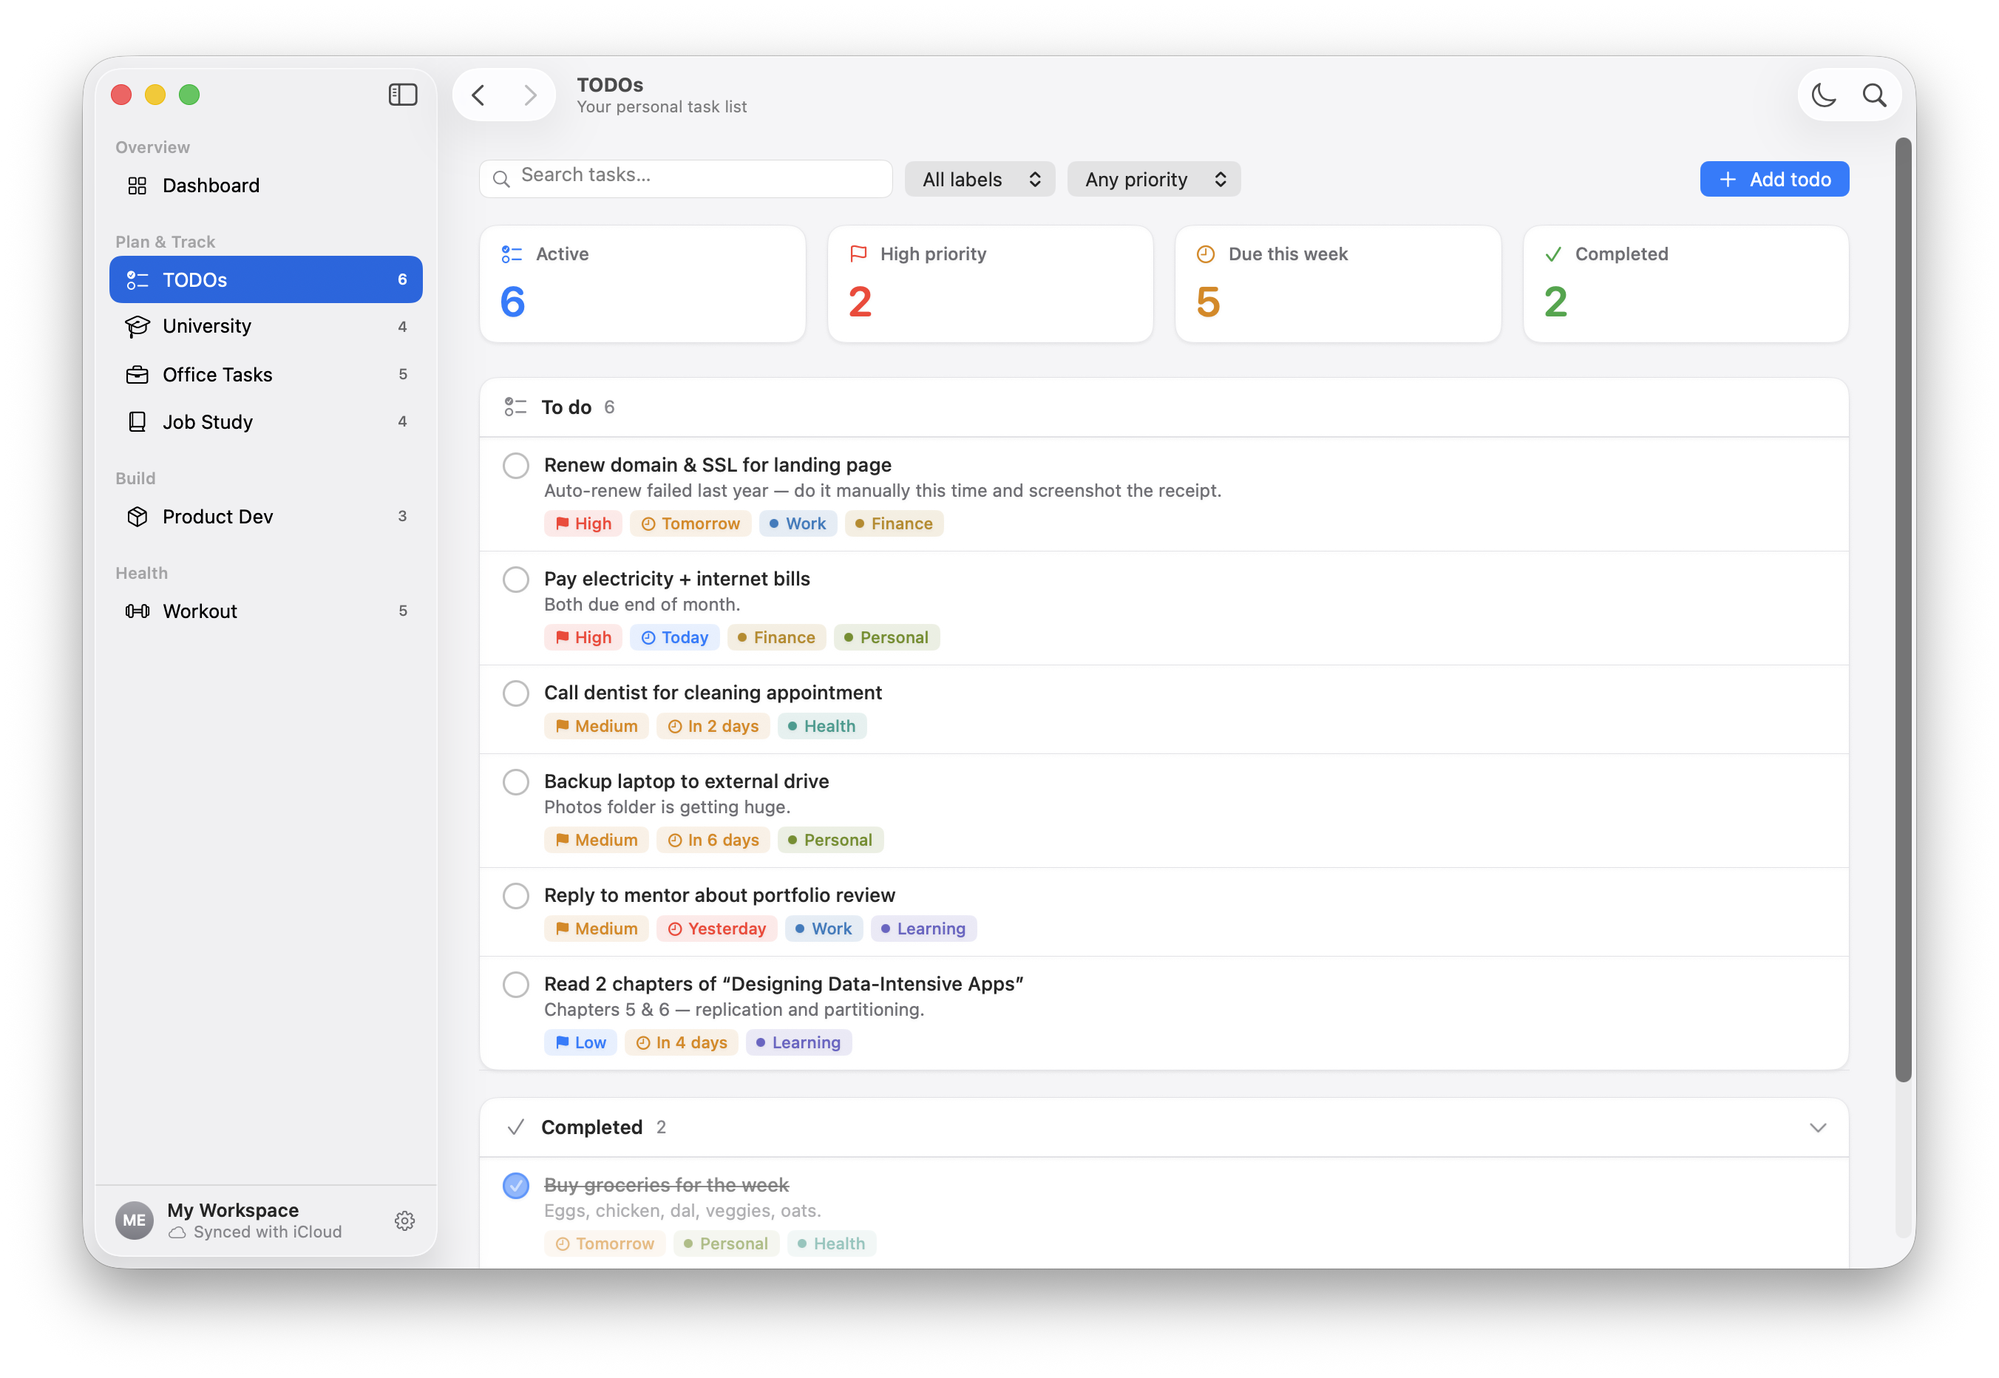
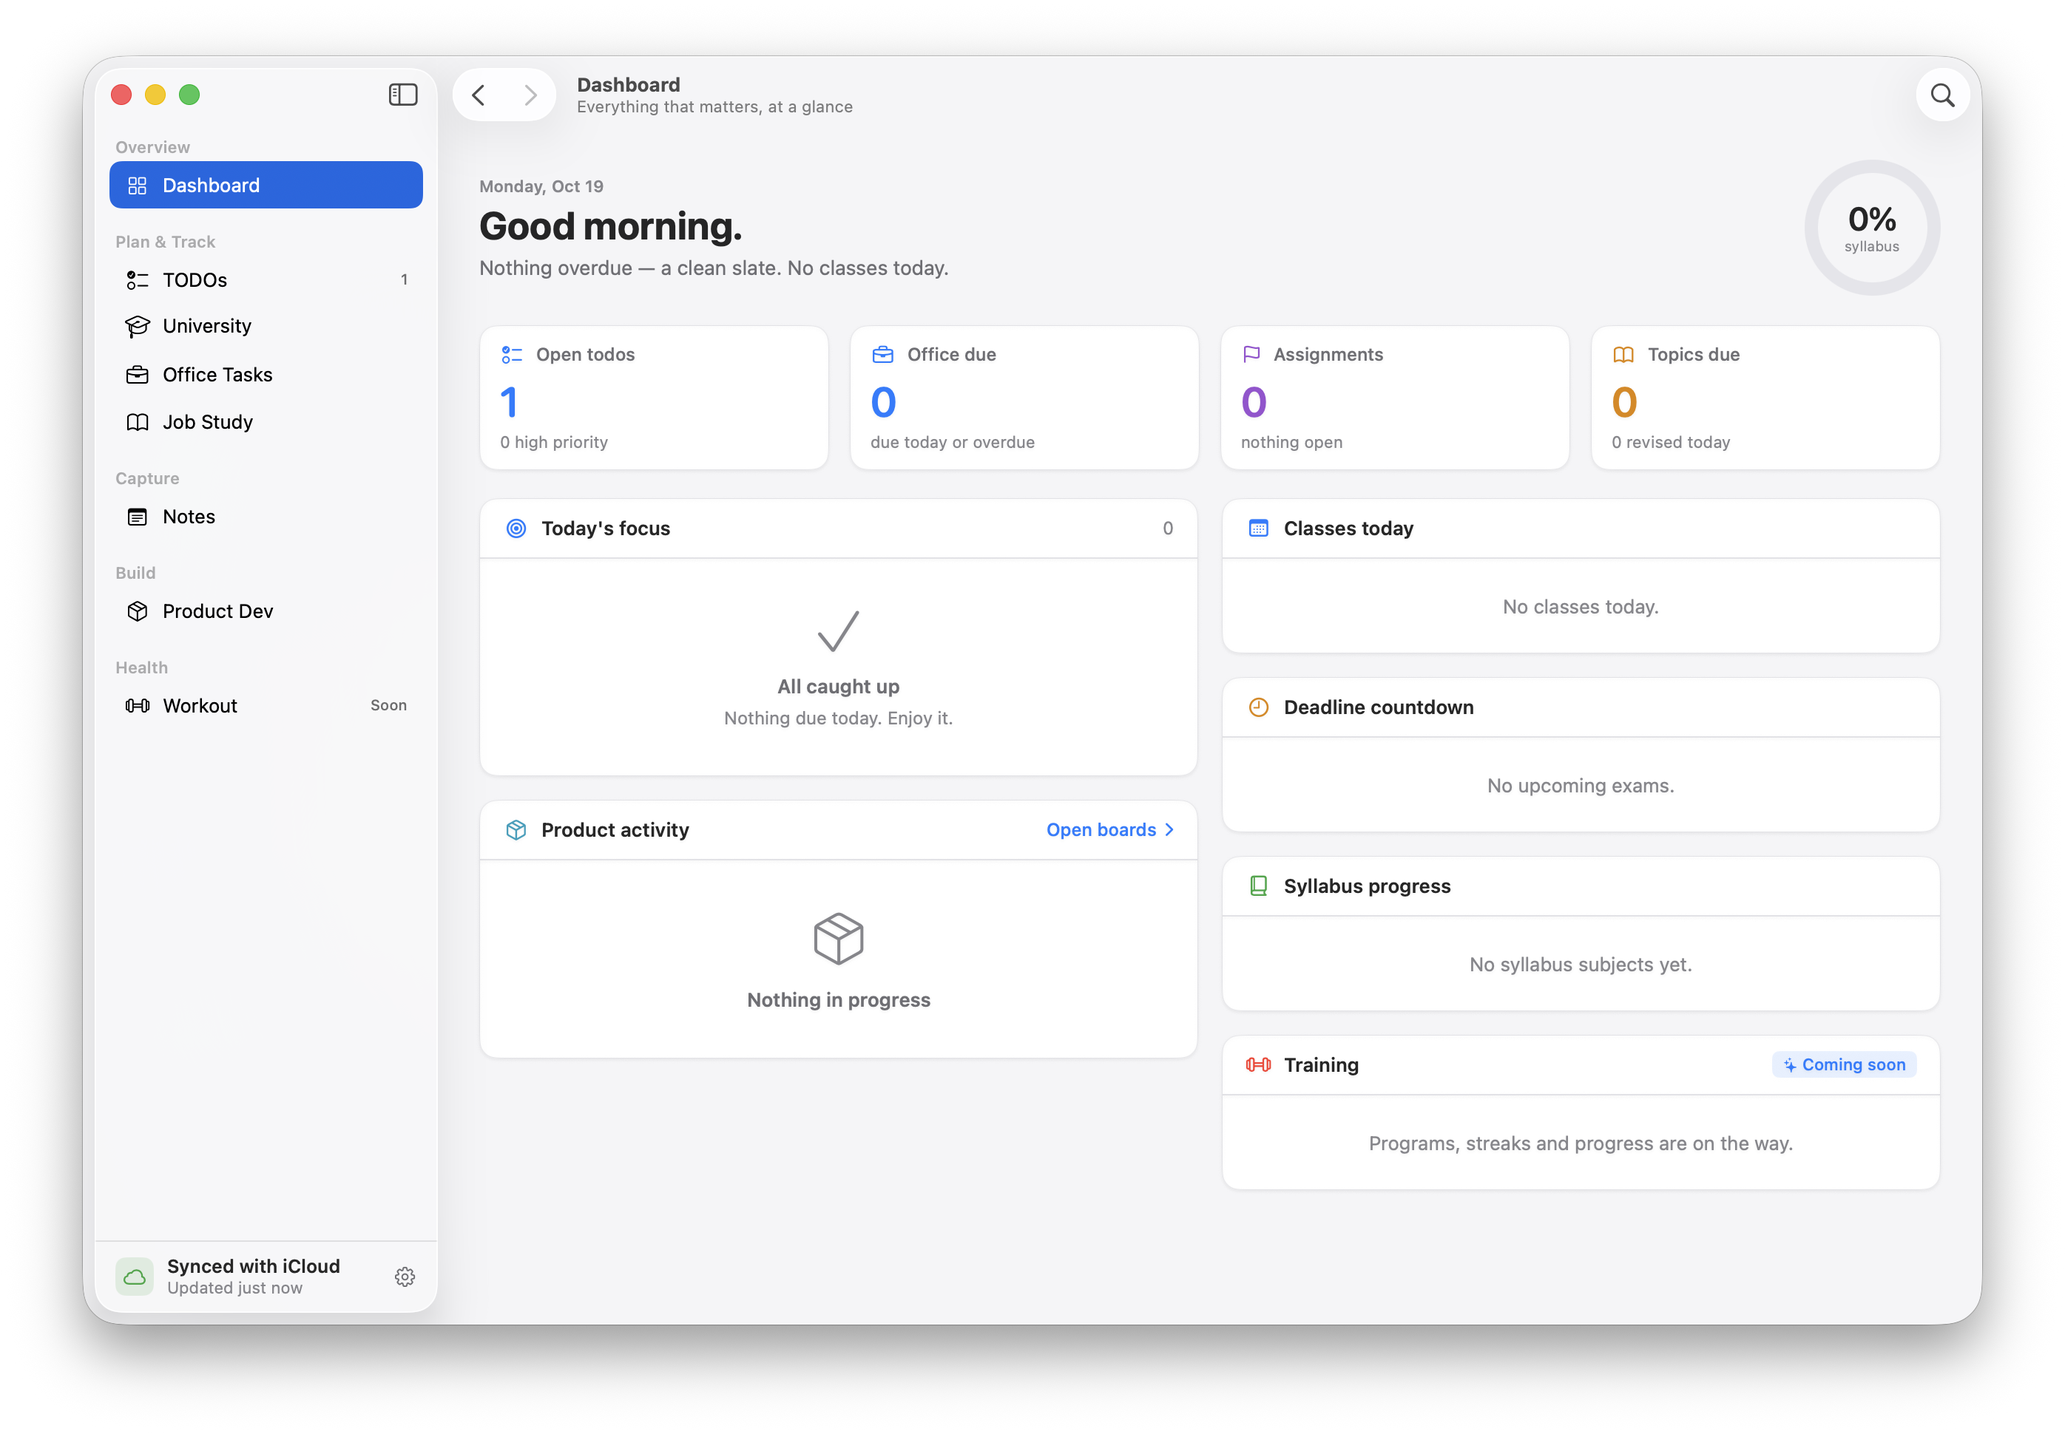
Rewrite the README for the current app and the DMG release
Cover every section, sync, shortcuts, the DMG install and Gatekeeper
steps, and add badges, the app icon and a dashboard screenshot.

diff --git a/README.md b/README.md
@@ -1,51 +1,113 @@
-# MySelf
+<div align="center">
 
-A personal OS for macOS, built in SwiftUI. One window for the things you track day to day: TODOs, university classes and assignments, office tasks, job-interview study, product boards and workout programs.
+<img src="docs/icon.png" width="128" height="128" alt="MySelf app icon">
 
-![MySelf showing the TODOs page with the sidebar, summary tiles and task list](screenshot.png)
+# MySelf: a personal productivity app for macOS
 
-> [!NOTE]
-> MySelf is in early development. **TODOs are saved and can sync between your Macs through iCloud Drive.** The other sections still run on sample data held in memory, so changes there are lost when you quit. Some editor sheets (such as "Add class") are placeholders for now.
+**One native Mac app for your to-dos, notes, university classes, office tasks, interview prep and product boards. Built with SwiftUI and synced over iCloud Drive.**
+
+[![macOS 26+](https://img.shields.io/badge/macOS-26%2B-000000?logo=apple&logoColor=white)](#requirements)
+[![Swift](https://img.shields.io/badge/Swift-5-F05138?logo=swift&logoColor=white)](https://www.swift.org)
+[![SwiftUI](https://img.shields.io/badge/UI-SwiftUI-0A84FF?logo=swift&logoColor=white)](https://developer.apple.com/xcode/swiftui/)
+[![Universal](https://img.shields.io/badge/Apple%20Silicon%20%2B%20Intel-Universal-6E6E73)](#requirements)
+[![License: MIT](https://img.shields.io/github/license/Ok9xNirab/myself?color=34C759)](LICENSE)
+[![Last commit](https://img.shields.io/github/last-commit/Ok9xNirab/myself)](https://github.com/Ok9xNirab/myself/commits/main)
+
+[**⬇ Download the DMG**](https://github.com/Ok9xNirab/myself/releases/latest) · [Features](#features) · [Install](#installation) · [Build from source](#build-from-source) · [iCloud sync](#icloud-sync)
+
+<img src="screenshot.png" alt="MySelf dashboard on macOS showing today's focus, open todos, office tasks, assignments, Job Study topics due, classes today and syllabus progress" width="860">
+
+</div>
+
+## Why MySelf?
+
+Most people track their life across five apps: a todo list, a notes app, a Kanban board, a study tracker and a calendar for classes. **MySelf puts all of them in one fast, native macOS window**, with a dashboard that shows what's due today across everything.
+
+- 🖥 **Native Mac app**: SwiftUI with a real sidebar, toolbar, menus, multiple windows and keyboard shortcuts. Not a web wrapper.
+- 🔒 **Your data stays yours**: no account, no server, no tracking. Every item is a small JSON file in a folder you choose.
+- ☁ **Free iCloud sync**: syncs between your Macs through iCloud Drive.
+- ⌨ **Keyboard-first**: Quick Open (<kbd>⌘K</kbd>), a system-wide search shortcut (<kbd>⌥⌘K</kbd>) and a shortcut for every page.
+- 🧩 **Only what you use**: switch off any section you don't need and it disappears everywhere.
 
 ## Features
 
 | Section | What it does |
 | --- | --- |
-| **Dashboard** | Today's focus (todos and office tasks due today or overdue, plus assignments due by tomorrow) and summary tiles for every enabled section. |
-| **TODOs** | Tasks with priorities, labels and due dates ("Today", "Tomorrow", "2d overdue"). Add with ⌘N, edit with a double-click, undo with ⌘Z. Saved and synced. |
-| **University** | Classes, weekly schedule, syllabus progress, assignments and exams. |
-| **Office Tasks** | Work tasks. These are always high priority. |
-| **Job Study** | Interview topics with revision tracking. Ticking a topic logs a revision for today. |
-| **Product Dev** | Kanban boards with Backlog, In Progress, Review and Done columns. |
-| **Workout** | Week-by-week programs. Future weeks unlock as you finish the current one. |
+| 📊 **Dashboard** | *Today's focus* (todos and office tasks due today or overdue, plus assignments due by tomorrow), classes today, deadline countdown, syllabus progress and product activity. |
+| ✅ **TODOs** | Tasks with priorities, colour labels and due dates ("Today", "Tomorrow", "2d overdue"). |
+| 🎓 **University** | Classes with a weekly schedule, syllabus subjects and topics, assignments and exams. |
+| 💼 **Office Tasks** | Work tasks with notes, a reference link and a due date. Always high priority. |
+| 📖 **Job Study** | Interview-prep subjects with a revision checklist. A topic is due again 7 days after you last revised it, and topics can link to notes. |
+| 📝 **Notes** | A block editor with headings, lists, checklists, quotes, syntax-highlighted code, **LaTeX math** and Bengali typefaces. Notes are sorted into categories, and any note can open in its own window. |
+| 🗂 **Product Dev** | Kanban boards per project with Backlog, In Progress, Review and Done columns. Drag cards between columns. |
+| 🏋 **Workout** | Week-by-week training programs. *Coming soon.* |
 
-Also included:
+### Built for speed
 
-- **Quick Open** (<kbd>⌘K</kbd>) to jump to any page or item.
-- Keyboard navigation: <kbd>⌘1</kbd>–<kbd>⌘7</kbd> go to a section, and <kbd>⌘[</kbd> / <kbd>⌘]</kbd> go back and forward.
-- Light and dark mode, a choice of accent colours, sidebar style and row density.
-- **Settings › Features**: switch off any section you don't use (University, Office Tasks, Job Study, Product Dev, Workout). It disappears from the sidebar, dashboard, Quick Open and Go menu, and its data stays in place.
-- An adaptive app icon with dark, clear and tinted variants.
+- **Quick Open** (<kbd>⌘K</kbd>) jumps to any page, task or note.
+- **Search MySelf from any app** (<kbd>⌥⌘K</kbd>, changeable) opens a Spotlight-style panel over whatever you're doing. No Accessibility permission needed.
+- **Menu bar icon** for quick access: New Todo, New Office Task, New Note, Search and Go To.
+- **Shortcuts**: <kbd>⌘N</kbd> new todo, <kbd>⇧⌘N</kbd> new office task, <kbd>⌥⌘N</kbd> new note, <kbd>⌘1</kbd>–<kbd>⌘8</kbd> switch pages, <kbd>⌘[</kbd> / <kbd>⌘]</kbd> back and forward, <kbd>⌃⌘S</kbd> show or hide the sidebar.
+- **Looks at home on macOS**: light and dark mode, your system accent colour, sidebar style and row density options, and an adaptive app icon with dark, clear and tinted variants.
 
 ## Requirements
 
-- **macOS 26 (Tahoe)** or later, on Apple Silicon or Intel.
-- To build from source: **Xcode 26** or later.
+- **macOS 26 (Tahoe)** or later
+- Apple Silicon or Intel (universal binary)
+- To build from source: **Xcode 26** or later
 
-The project also targets iOS, iPadOS and visionOS, but macOS is the primary platform and the only one covered below.
+The project also builds for iPadOS, iOS and visionOS, but macOS is the main platform.
 
 ## Installation
 
-MySelf isn't distributed through the Mac App Store and isn't notarized by Apple, so macOS Gatekeeper blocks it the first time you open it. The steps below show how to allow it. You only need to do this once.
+1. Download **`MySelf-<version>.dmg`** from the [latest release](https://github.com/Ok9xNirab/myself/releases/latest).
+2. Open the DMG and drag **Myself** onto the **Applications** folder.
+3. Open MySelf from Applications. The first time, macOS will block it. Follow [Opening MySelf for the first time](#opening-myself-for-the-first-time).
 
-### Option 1: Download a release
+### Opening MySelf for the first time
 
-1. Go to the [Releases](https://github.com/Ok9xNirab/myself/releases) page and download the latest `MySelf.zip`.
-2. Double-click the zip to extract `Myself.app`.
-3. Drag `Myself.app` into your **Applications** folder.
-4. Open it, then follow [Getting past Gatekeeper](#getting-past-gatekeeper).
+MySelf is free and open source, and it isn't notarized by Apple (that needs a paid developer account). So the first time you open it, macOS shows:
 
-### Option 2: Build from source
+> "Myself" Not Opened. Apple could not verify "Myself" is free of malware that may harm your Mac or compromise your privacy.
+
+The app isn't damaged, and you can read every line of its source here. Allow it once:
+
+1. Click **Done** on the warning (not *Move to Trash*).
+2. Open **System Settings › Privacy & Security**.
+3. Scroll down to **Security**, find *"Myself" was blocked…* and click **Open Anyway**.
+4. Confirm with your password or Touch ID, then click **Open Anyway** again.
+
+> [!TIP]
+> On macOS 15 and later, Control-clicking the app and choosing **Open** no longer gets past this warning. Use **Open Anyway** in System Settings.
+
+**Prefer Terminal?** Remove the download quarantine flag instead:
+
+```sh
+xattr -dr com.apple.quarantine /Applications/Myself.app
+```
+
+The same command fixes the *"Myself is damaged and can't be opened"* message.
+
+### Updating and uninstalling
+
+- **Update**: quit MySelf, drag the new version from the DMG into Applications and replace the old one. You may need to allow it once more.
+- **Uninstall**: move `Myself.app` to the Trash. To also delete its local data, run `rm -rf ~/Library/Containers/com.ok9xnirab.myself`. Anything in your iCloud sync folder stays there until you delete it.
+
+## iCloud sync
+
+MySelf syncs through **a folder in iCloud Drive** instead of CloudKit, so it works without an Apple developer account.
+
+1. Open **Settings › iCloud** and choose or create a folder, such as *iCloud Drive › MySelf*.
+2. Pick the same folder on each of your Macs.
+
+Each todo, label, office task, note, class, assignment, exam, study subject, board and card is saved as its own JSON file, and iCloud Drive copies them between Macs. If the same item was changed on two Macs, the newer change wins. With sync off, the same files live in the app's local Application Support folder.
+
+Sync works between Macs only. The iPhone and iPad builds keep their data on the device.
+
+> [!NOTE]
+> MySelf is in active development. TODOs, Office Tasks, Notes, University, Job Study and Product Dev are saved and synced. Workout still uses sample data and doesn't save yet.
+
+## Build from source
 
 ```sh
 git clone https://github.com/Ok9xNirab/myself.git
@@ -53,122 +115,48 @@ cd myself
 open Myself.xcodeproj
 ```
 
-In Xcode, choose the **Myself** scheme and **My Mac** as the destination, then press <kbd>⌘R</kbd>.
+In Xcode, choose the **Myself** scheme and **My Mac**, then press <kbd>⌘R</kbd>. Xcode fetches the one dependency, [SwiftMath](https://github.com/mgriebling/SwiftMath), automatically.
 
-To build from the command line instead:
-
-```sh
-xcodebuild -project Myself.xcodeproj -scheme Myself \
-  -configuration Release -destination 'platform=macOS' \
-  -derivedDataPath build \
-  CODE_SIGN_IDENTITY=- CODE_SIGNING_REQUIRED=NO
-
-cp -R build/Build/Products/Release/Myself.app /Applications/
-```
-
-If `xcodebuild` reports that it requires Xcode while only the Command Line Tools are selected, either run `sudo xcode-select -s /Applications/Xcode.app/Contents/Developer` or put `DEVELOPER_DIR=/Applications/Xcode.app/Contents/Developer` in front of the command.
-
-An app you build on your own Mac isn't quarantined, so Gatekeeper normally won't block it.
-
-## Getting past Gatekeeper
-
-When you first open a downloaded copy, macOS shows a message such as:
-
-> "Myself" Not Opened. Apple could not verify "Myself" is free of malware that may harm your Mac or compromise your privacy.
-
-This happens because the app isn't signed with a paid Apple Developer ID. It doesn't mean the app is damaged. You can read every line of the source in this repository. Use either method below.
-
-### Method A: System Settings (recommended)
-
-1. Try to open **Myself** from Applications. When the warning appears, click **Done** (not *Move to Trash*).
-2. Open **System Settings › Privacy & Security**.
-3. Scroll down to the **Security** section. You'll see *"Myself" was blocked to protect your Mac.* Click **Open Anyway**.
-4. Enter your password or use Touch ID when prompted.
-5. Click **Open Anyway** once more in the dialog that follows.
-
-From then on, MySelf opens normally.
-
-> [!TIP]
-> On macOS 15 and later, the old trick of Control-clicking the app and choosing **Open** no longer bypasses Gatekeeper. Use **Open Anyway** in System Settings instead.
-
-### Method B: Terminal
-
-Remove the quarantine flag that macOS adds to downloaded files:
+### Make a distributable DMG
 
 ```sh
-xattr -dr com.apple.quarantine /Applications/Myself.app
+./scripts/make-dmg.sh
 ```
 
-Then open the app as usual.
+The script builds a universal Release app, ad-hoc signs it with hardened runtime and writes `dist/MySelf-<version>.dmg`, with the version read from `MARKETING_VERSION`. Upload that file to a [new GitHub release](https://github.com/Ok9xNirab/myself/releases/new).
 
-### "Myself is damaged and can't be opened"
-
-macOS sometimes shows this message for unsigned apps that were downloaded from the internet. The app isn't actually damaged. Run the `xattr` command from Method B, then open the app again.
-
-If it still won't open, give it an ad-hoc signature and try again:
-
-```sh
-codesign --force --deep --sign - /Applications/Myself.app
-```
-
-## Updating
-
-Download the new release, quit MySelf, and replace the old `Myself.app` in Applications with the new one. You may need to repeat [Getting past Gatekeeper](#getting-past-gatekeeper) for each new version.
-
-## Uninstalling
-
-1. Drag `Myself.app` from Applications to the Trash.
-2. Optionally, remove its saved settings:
-
-   ```sh
-   rm -rf ~/Library/Containers/*Myself*
-   ```
-
-## Publishing a release (for maintainers)
-
-Apple Silicon Macs won't launch a binary that has no signature at all, so a release must be at least ad-hoc signed:
-
-```sh
-xcodebuild -project Myself.xcodeproj -scheme Myself \
-  -configuration Release -destination 'platform=macOS' \
-  -derivedDataPath build \
-  CODE_SIGN_IDENTITY=- CODE_SIGNING_REQUIRED=NO
-
-cd build/Build/Products/Release
-codesign --verify --verbose Myself.app
-ditto -c -k --keepParent Myself.app MySelf.zip
-```
-
-Attach `MySelf.zip` to a new [GitHub release](https://github.com/Ok9xNirab/myself/releases/new). Use `ditto` rather than `zip`, because `ditto` preserves the app bundle's signature and extended attributes.
+If `xcodebuild` says it needs Xcode while only the Command Line Tools are selected, run `sudo xcode-select -s /Applications/Xcode.app/Contents/Developer`, or set `DEVELOPER_DIR` to that path.
 
 ## Project structure
 
 ```
 Myself/
-├── MyApp.swift          App entry point, menu commands, settings window
+├── MyApp.swift          App entry point, scenes, menu commands
 ├── ContentView.swift    Sidebar, toolbar and page switching
-├── Models/              AppStore (state and mutations), models, sample data
+├── Models/              AppStore (state and mutations), models, sync engine
 ├── Pages/               One view per section, plus Quick Open and Settings
 ├── Components/          Shared design-system views (cards, badges, progress…)
-├── Support/             Date helpers, theme palette, preferences
+├── Support/             Dates, theme palette, preferences, markdown & code rendering
+├── Fonts/               Bundled Bengali fonts (SIL OFL)
 └── AppIcon.icon/        Icon Composer app icon
+scripts/make-dmg.sh      Builds the release DMG
 ```
-
-## iCloud sync
-
-MySelf syncs through a folder in iCloud Drive rather than CloudKit, so it works without a paid Apple Developer account. Open Settings › iCloud, choose (or create) a folder such as **iCloud Drive › MySelf**, and choose the same folder on each Mac. Each todo and label is saved there as its own small JSON file, and iCloud Drive copies the files between Macs. With sync off, the files live in the app's Application Support folder instead.
-
-This works between Macs only. iPhone and iPad builds keep their data on the device.
 
 ## Roadmap
 
-- Save and sync the other sections the same way TODOs are
-- Working editors for the remaining sections
+- [x] TODOs, labels and Office Tasks, saved and synced
+- [x] Notes with a block editor, LaTeX math and code highlighting
+- [x] University, Job Study and Product Dev boards, saved and synced
+- [x] System-wide search shortcut and menu bar icon
+- [ ] Workout programs, saved and synced
+- [ ] Developer ID signing and notarization
 
 ## Contributing
 
-Issues and pull requests are welcome. For larger changes, please open an issue first to discuss what you'd like to change.
+Bug reports, feature ideas and pull requests are welcome. For bigger changes, please [open an issue](https://github.com/Ok9xNirab/myself/issues) first so we can talk it through.
+
+If MySelf is useful to you, a ⭐ on GitHub helps other people find it.
 
 ## License
 
-MySelf is released under the [MIT License](LICENSE). The bundled Bengali fonts are under the SIL Open Font License; their licence files are in `Myself/Fonts/`.
+MySelf is released under the [MIT License](LICENSE). The bundled Bengali fonts (Noto Sans Bengali, Noto Serif Bengali, Hind Siliguri and Tiro Bangla) are under the SIL Open Font License, with licence files in `Myself/Fonts/`.
